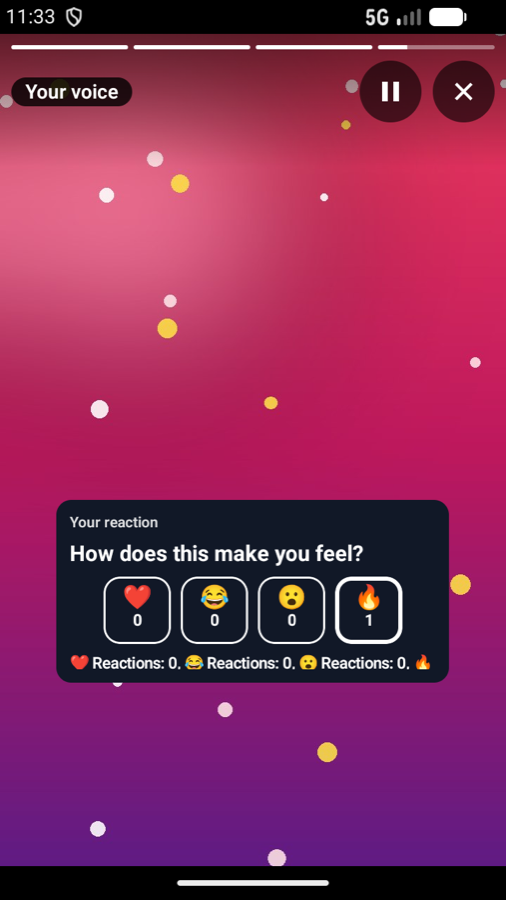
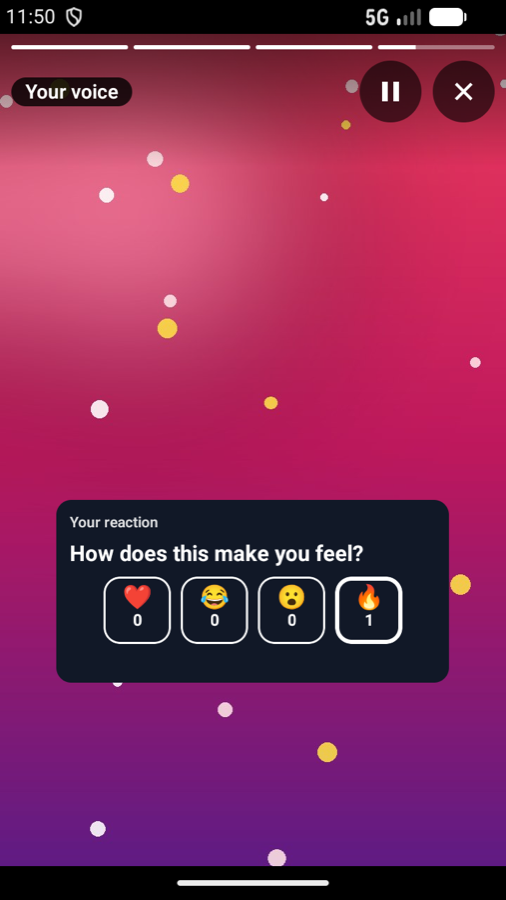
Native SDK: keep every choice visible after a vote, no spinner when every group is capped, announcements for screen readers only; answered screenshots

Changed region(s): [[0.1186, 0.7156, 0.8597, 0.7467], [0.0593, 0.0, 0.1186, 0.0311], [0.8004, 0.0311, 0.83, 0.0622]]

diff --git a/libs/mobile-sdk/src/commonTest/kotlin/site/lempert/taleart/sdk/ui/InteractiveUiTest.kt b/libs/mobile-sdk/src/commonTest/kotlin/site/lempert/taleart/sdk/ui/InteractiveUiTest.kt
@@ -5,12 +5,18 @@ import androidx.compose.foundation.layout.size
 import androidx.compose.runtime.CompositionLocalProvider
 import androidx.compose.ui.Modifier
 import androidx.compose.ui.test.ExperimentalTestApi
+import androidx.compose.ui.semantics.LiveRegionMode
+import androidx.compose.ui.semantics.SemanticsProperties
+import androidx.compose.ui.test.SemanticsMatcher
+import androidx.compose.ui.test.assertIsDisplayed
 import androidx.compose.ui.test.assertIsEnabled
 import androidx.compose.ui.test.assertIsNotEnabled
 import androidx.compose.ui.test.assertIsSelected
+import androidx.compose.ui.test.assert
 import androidx.compose.ui.test.onAllNodesWithContentDescription
 import androidx.compose.ui.test.onAllNodesWithText
 import androidx.compose.ui.test.onNodeWithContentDescription
+import androidx.compose.ui.test.onFirst
 import androidx.compose.ui.test.onNodeWithText
 import androidx.compose.ui.test.performClick
 import androidx.compose.ui.test.v2.runComposeUiTest
@@ -71,10 +77,14 @@ class InteractiveUiTest : ComposeUiTestBase() {
         }
         waitForIdle()
         onNodeWithContentDescription("Tea").performClick()
-        waitUntil("the result", 5_000) { onAllNodesWithText("You voted Tea. Tea 67%, Coffee 33%").fetchSemanticsNodes().isNotEmpty() }
+        waitUntil("the result", 5_000) { onAllNodesWithText("You voted Tea.").fetchSemanticsNodes().isNotEmpty() }
+        // The shares are on the buttons; the full announcement is said by a polite live region, never drawn as a line.
+        assertTrue(onAllNodesWithText("You voted Tea. Tea 67%, Coffee 33%").fetchSemanticsNodes().isEmpty())
+        onAllNodesWithContentDescription("You voted Tea. Tea 67%, Coffee 33%").onFirst()
+            .assert(SemanticsMatcher.expectValue(SemanticsProperties.LiveRegion, LiveRegionMode.Polite))
         assertEquals(listOf("poll:tea"), responder.sent)
-        onNodeWithContentDescription("Tea, 67%").assertIsSelected().assertIsNotEnabled()
-        onNodeWithContentDescription("Coffee, 33%").assertIsNotEnabled()
+        onNodeWithContentDescription("Tea, 67%").assertIsSelected().assertIsNotEnabled().assertIsDisplayed()
+        onNodeWithContentDescription("Coffee, 33%").assertIsNotEnabled().assertIsDisplayed()
         // A second press takes no second answer.
         onNodeWithContentDescription("Coffee, 33%").performClick()
         waitForIdle()
@@ -135,11 +145,32 @@ class InteractiveUiTest : ComposeUiTestBase() {
         waitForIdle()
         onNodeWithContentDescription("3").performClick()
         waitUntil("the wrong answer", 5_000) {
-            onAllNodesWithText("Wrong: you answered 3. The correct answer is 4. 3 100%, 4 0%").fetchSemanticsNodes().isNotEmpty()
+            onAllNodesWithText("Wrong: you answered 3. The correct answer is 4.").fetchSemanticsNodes().isNotEmpty()
         }
+        assertTrue(onAllNodesWithText("Wrong: you answered 3. The correct answer is 4. 3 100%, 4 0%").fetchSemanticsNodes().isEmpty())
+        onAllNodesWithContentDescription("Wrong: you answered 3. The correct answer is 4. 3 100%, 4 0%").onFirst()
+            .assert(SemanticsMatcher.expectValue(SemanticsProperties.LiveRegion, LiveRegionMode.Polite))
         onNodeWithContentDescription("3 wrong, 100%").assertIsSelected()
         onNodeWithContentDescription("4 correct answer, 0%").assertIsNotEnabled()
         assertEquals(listOf("quiz:a"), responder.sent)
+    }
+
+    @Test
+    fun aThreeOptionQuizStaysFullyDisplayedAfterAnAnswer() = runComposeUiTest {
+        val props = """{"question":"Capital?","answers":[{"id":"a","label":"Rome"},{"id":"b","label":"Paris"},{"id":"c","label":"Oslo"}],"correctAnswerId":"b","theme":"light"}"""
+        val responder = FakeResponder(answered("a", ChoiceResult(2, listOf(ChoiceCount("a", 1, 50), ChoiceCount("b", 1, 50), ChoiceCount("c", 0, 0)))))
+        setContent {
+            CompositionLocalProvider(LocalElementResponder provides responder) {
+                Box(Modifier.size(180.dp, 320.dp)) { DocumentElementsLayer(layerOf(element("quiz", props))) }
+            }
+        }
+        waitForIdle()
+        onNodeWithContentDescription("Rome").performClick()
+        waitUntil("the result", 5_000) { onAllNodesWithContentDescription("Rome wrong, 50%").fetchSemanticsNodes().isNotEmpty() }
+        // Every option keeps its place and its share after the answer: none is pushed out by another option's bar.
+        onNodeWithContentDescription("Rome wrong, 50%").assertIsDisplayed().assertIsSelected()
+        onNodeWithContentDescription("Paris correct answer, 50%").assertIsDisplayed()
+        onNodeWithContentDescription("Oslo, 0%").assertIsDisplayed()
     }
 
     @Test
@@ -170,7 +201,11 @@ class InteractiveUiTest : ComposeUiTestBase() {
         }
         waitForIdle()
         onNodeWithContentDescription("😂").performClick()
-        waitUntil("the counts", 5_000) { onAllNodesWithText("😂 Reactions: 2, ❤ Reactions: 0").fetchSemanticsNodes().isNotEmpty() }
+        // The counts are said to screen readers from a polite live region, and drawn on the buttons, never as a line of text.
+        waitUntil("the counts", 5_000) { onAllNodesWithContentDescription("😂 Reactions: 2, ❤ Reactions: 0").fetchSemanticsNodes().isNotEmpty() }
+        onAllNodesWithContentDescription("😂 Reactions: 2, ❤ Reactions: 0").onFirst()
+            .assert(SemanticsMatcher.expectValue(SemanticsProperties.LiveRegion, LiveRegionMode.Polite))
+        assertTrue(onAllNodesWithText("😂 Reactions: 2, ❤ Reactions: 0").fetchSemanticsNodes().isEmpty(), "the announcement is not drawn")
         onNodeWithContentDescription("😂, Reactions: 2").assertIsSelected().assertIsNotEnabled()
         onNodeWithContentDescription("❤, Reactions: 0").assertIsNotEnabled()
         assertEquals(listOf("reaction:😂"), responder.sent)

diff --git a/libs/mobile-sdk/src/commonMain/kotlin/site/lempert/taleart/sdk/ui/TaleInteractive.kt b/libs/mobile-sdk/src/commonMain/kotlin/site/lempert/taleart/sdk/ui/TaleInteractive.kt
@@ -11,11 +11,11 @@ import androidx.compose.foundation.layout.Box
 import androidx.compose.foundation.layout.Column
 import androidx.compose.foundation.layout.Row
 import androidx.compose.foundation.layout.defaultMinSize
-import androidx.compose.foundation.layout.fillMaxHeight
 import androidx.compose.foundation.layout.fillMaxWidth
 import androidx.compose.foundation.layout.height
 import androidx.compose.foundation.layout.offset
 import androidx.compose.foundation.layout.padding
+import androidx.compose.foundation.layout.size
 import androidx.compose.foundation.layout.width
 import androidx.compose.foundation.selection.selectable
 import androidx.compose.foundation.shape.RoundedCornerShape
@@ -235,6 +235,20 @@ private fun LiveLine(text: String, ink: androidx.compose.ui.graphics.Color, canv
     )
 }
 
+// The line screen readers say and nothing draws (the web SDK's visually hidden live region): a reaction's counts
+// read out in one sentence would be a long clipped line on screen. A 1 dp node carries it as its description.
+@Composable
+private fun SpokenLine(text: String) {
+    Box(
+        Modifier
+            .size(1.dp)
+            .semantics {
+                liveRegion = LiveRegionMode.Polite
+                if (text.isNotEmpty()) contentDescription = text
+            },
+    )
+}
+
 // ---- Poll and quiz ----------------------------------------------------------------------------
 
 // A quiz's mark on a choice: right (the correct answer) or wrong (the visitor's wrong answer).
@@ -305,6 +319,8 @@ private fun ChoiceCardElement(
     var preview by remember(id) { mutableStateOf<String?>(null) }
     var busy by remember(id) { mutableStateOf(false) }
     var live by remember(id) { mutableStateOf("") }
+    // The announcement with the shares, said to screen readers only: the shares are on the buttons already.
+    var spoken by remember(id) { mutableStateOf("") }
     val shown = answer?.value ?: preview
     val locked = shown != null
     val result = answer?.result
@@ -329,7 +345,8 @@ private fun ChoiceCardElement(
                 is ResponseOutcome.Answered -> {
                     val response = outcome.response
                     answer = StoredResponse(response.value, response.result)
-                    live = choiceSaying(start(response.value), choices, response.result)
+                    live = start(response.value)
+                    spoken = choiceSaying(start(response.value), choices, response.result)
                 }
                 is ResponseOutcome.Failed -> live = failed
             }
@@ -357,6 +374,7 @@ private fun ChoiceCardElement(
             )
         }
         LiveLine(live, ink, canvas)
+        SpokenLine(spoken)
     })
 }
 
@@ -414,7 +432,8 @@ private fun ChoiceButton(
             Box(
                 Modifier
                     .fillMaxWidth(percent.coerceIn(0, 100) / 100f)
-                    .fillMaxHeight()
+                    // The button's own height, not the column's: a fill that takes the free height pushed the other options out.
+                    .matchParentSize()
                     .background(ink.copy(alpha = 0.22f)),
             )
         }
@@ -667,6 +686,6 @@ internal fun ReactionElement(element: DocumentElement.Reaction, canvas: CanvasMe
                 }
             }
         }
-        LiveLine(live, ink, canvas)
+        SpokenLine(live)
     })
 }

diff --git a/apps/docs/src/app/pages/android-guide.ts b/apps/docs/src/app/pages/android-guide.ts
@@ -388,6 +388,19 @@ import {
         A poll before the visitor votes, in the sample app's viewer (taller) on Android, a real screenshot.
       </figcaption>
     </figure>
+    <figure class="native-figure native-shot">
+      <img
+        src="images/android-shot-poll-answered.png"
+        width="506"
+        height="900"
+        loading="lazy"
+        alt="The same poll on Android after a vote for Beach: both options keep their place, Beach shows 100 percent and is selected, Mountains shows 0 percent, and the card reads 'You voted Beach.'"
+      />
+      <figcaption class="muted">
+        After a vote each option shows its share and the vote is selected; the line under the options is the result in words
+        (a real screenshot).
+      </figcaption>
+    </figure>
     <h3 id="answer-quiz">Quiz</h3>
     <p>
       Two to four answers. Once answered, the quiz says whether the answer was right: the correct answer is marked with a
@@ -404,6 +417,19 @@ import {
       />
       <figcaption class="muted">
         A quiz before the visitor answers, in the sample app's viewer (taller) on Android, a real screenshot.
+      </figcaption>
+    </figure>
+    <figure class="native-figure native-shot">
+      <img
+        src="images/android-shot-quiz-answered.png"
+        width="506"
+        height="900"
+        loading="lazy"
+        alt="The same quiz on Android after the visitor picked Saturn: all three answers stay in place, Saturn is outlined in green with a tick and 100 percent, Mars and Earth show 0 percent, and the card reads 'Right! You answered Saturn.'"
+      />
+      <figcaption class="muted">
+        A right answer is marked with a tick and its share, and the line under the answers says so in words (a real
+        screenshot).
       </figcaption>
     </figure>
     <h3 id="answer-rating">Rating</h3>

diff --git a/libs/mobile-sdk/src/commonMain/kotlin/site/lempert/taleart/sdk/ui/TaleartZoneController.kt b/libs/mobile-sdk/src/commonMain/kotlin/site/lempert/taleart/sdk/ui/TaleartZoneController.kt
@@ -83,6 +83,14 @@ class TaleartZoneController(
     var zone: DeliveryZone? by mutableStateOf(null)
         private set
 
+    /**
+     * True once a read of the current inputs has succeeded, whatever it left to show. With [zone] null, a
+     * loaded view has nothing to show (every group capped or left out by targeting, so nothing is drawn),
+     * while a view that is not loaded yet is still reading; a host tells the two apart by this.
+     */
+    var loaded: Boolean by mutableStateOf(false)
+        private set
+
     /** The last read's failure, or null after a success or while inputs are missing. */
     var failure: ZoneResult.Failure? by mutableStateOf(null)
         private set
@@ -125,7 +133,10 @@ class TaleartZoneController(
         configured = true
         this.apiUrl = u
         this.zoneKey = k
-        if (changed) this.zone = null
+        if (changed) {
+            this.zone = null
+            loaded = false
+        }
         start()
     }
 
@@ -149,6 +160,7 @@ class TaleartZoneController(
         if (!isComplete) {
             zone = null
             failure = null
+            loaded = false
             analyticsTarget = null
             readApiUrl = null
             return
@@ -167,9 +179,11 @@ class TaleartZoneController(
                     val event = TaleartEvent(name = "loaded", zoneKeyPrefix = keyPrefix(key), zoneSlug = result.zone.slug)
                     deliver(listener, event) { it.onLoaded(event) }
                     zone = withinFrequency(targeted(result.zone), key)
+                    loaded = true
                 }
                 is ZoneResult.Failure -> {
                     zone = null
+                    loaded = false
                     failure = result
                     analyticsTarget = null
                     println("TaleArt: ${result.message}")

diff --git a/libs/mobile-sdk/src/commonTest/kotlin/site/lempert/taleart/sdk/FrequencyCapTest.kt b/libs/mobile-sdk/src/commonTest/kotlin/site/lempert/taleart/sdk/FrequencyCapTest.kt
@@ -26,6 +26,7 @@ import site.lempert.taleart.sdk.ui.TaleartZoneController
 import kotlin.test.AfterTest
 import kotlin.test.Test
 import kotlin.test.assertEquals
+import kotlin.test.assertFalse
 import kotlin.test.assertNull
 import kotlin.test.assertTrue
 
@@ -106,10 +107,13 @@ class FrequencyCapTest {
         val recording = Recording()
         val controller = controller(store, recording)
         controller.configure(api, key)
+        assertFalse(controller.loaded, "not loaded before the read answers")
         settle { recording.events.count { it.name == "groupCapped" } == 2 }
 
         assertNull(controller.zone)
         assertNull(controller.failure)
+        // Loaded with nothing to show: a host draws an empty state, not a spinner, and nothing is an error.
+        assertTrue(controller.loaded)
     }
 
     @Test

diff --git a/apps/taller/src/commonMain/kotlin/site/lempert/taleart/taller/App.kt b/apps/taller/src/commonMain/kotlin/site/lempert/taleart/taller/App.kt
@@ -233,6 +233,8 @@ private fun HomeScreen(
             failure != null -> if (options.fallback != FallbackMode.Message) {
                 Text(failureLabel(failure), color = MaterialTheme.colorScheme.error, modifier = Modifier.testTag("error"))
             }
+            // Read and nothing left to show (every group capped or left out for this viewer): an empty state, not a spinner.
+            controller.loaded -> Text("Nothing to show: every group here is capped or left out for this viewer.", modifier = Modifier.testTag("empty"))
             else -> CircularProgressIndicator(Modifier.testTag("loading"))
         }
     }
